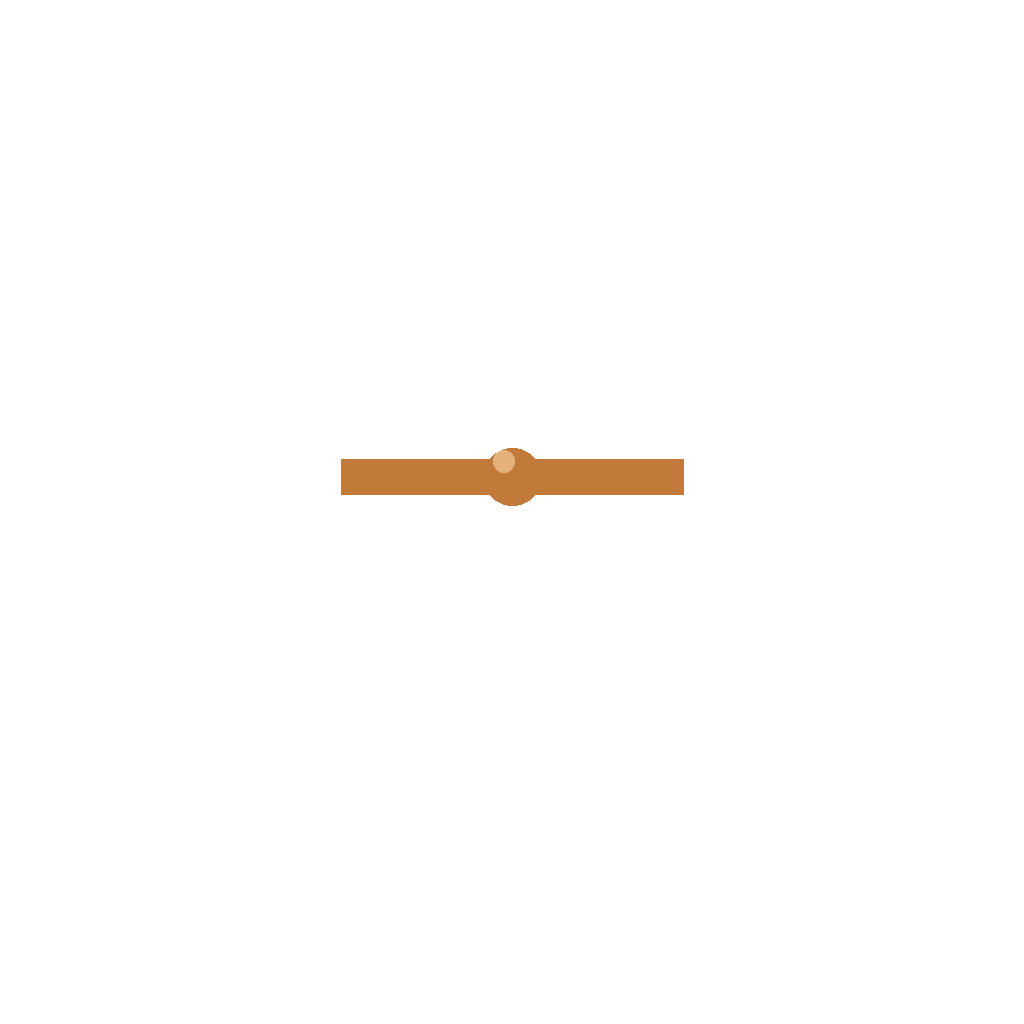
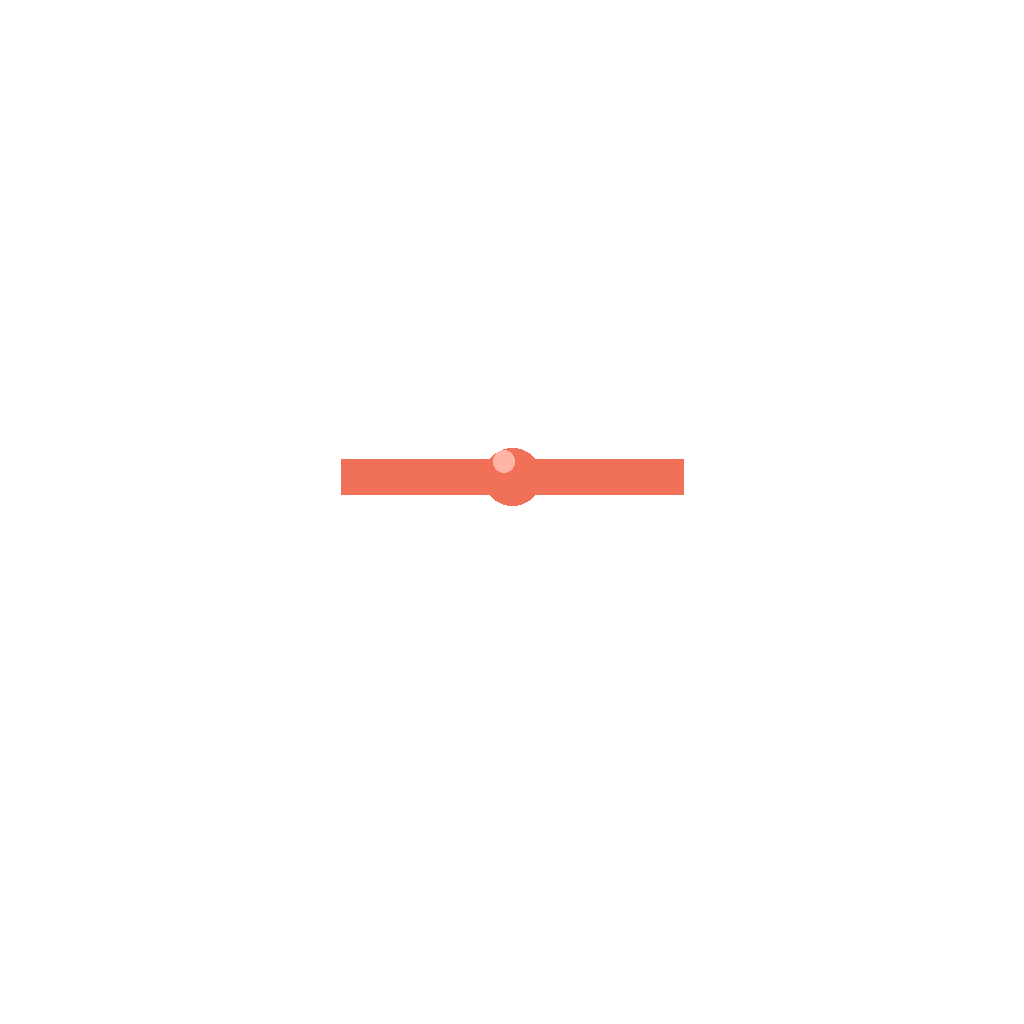
design: paleta modernizada para audiencia joven — coral + teal-gray
Basado en Refactoring UI (grises derivados del primario) y tendencias 2024:
- amber #C17A3A → coral #F07058: acento más vivo y moderno
- canopy: más vibrante (#2D6A4F → #2A7850)
- sage: más saturado (#74A689 → #62B88E)
- bark: fondo verde-neutro frío (antes beige-cálido #F7F4EF)
- stone400/600: teal-gray en lugar de brown-gray
- ink: verde-negro (#111D1A) en lugar de café-negro
- overlays: actualizados a rgba(17,29,26) frío
- Ícono: acento coral aplicado también al icono y splash

Changed region(s): [[0.3125, 0.4375, 0.6875, 0.5]]

diff --git a/src/theme/index.js b/src/theme/index.js
@@ -3,41 +3,45 @@
 
 // ── Colors ──────────────────────────────────────────────────────────────────
 export const colors = {
-  // Brand greens — selva costarricense, no menta tech
-  forest:    '#1B4332',   // primario: verde selva oscuro
-  canopy:    '#2D6A4F',   // secundario: dosel
-  sage:      '#74A689',   // acento verde desaturado
-  sageFaint: '#EBF2EE',   // fondo de badges verdes
+  // Brand greens
+  // forest: sin cambio — ancla oscura necesaria para headers con buen contraste
+  // canopy/sage: más vibrantes y luminosos que la paleta anterior
+  forest:    '#1B4332',   // primario: verde selva (sin cambio)
+  canopy:    '#2A7850',   // secundario: más vivo que #2D6A4F (contraste 5:1 en blanco ✓)
+  sage:      '#62B88E',   // acento verde: más saturado y fresco que #74A689
+  sageFaint: '#E3F4EC',   // fondo de badges: tint más limpio
 
-  // Action amber — cálido, terroso, diferencia acción de navegación
-  amber:      '#C17A3A',
-  amberDark:  '#A3612A',
-  amberLight: '#F5E6D3',
-  amberFaint: '#FBF3EB',
+  // Accent coral — reemplaza el amber terroso (#C17A3A) con coral moderno
+  // Tendencia dominante 2024 en apps lifestyle/eco para audiencia joven
+  amber:      '#F07058',  // coral vivo  (antes naranja-café #C17A3A)
+  amberDark:  '#D35640',  // coral oscuro (antes #A3612A)
+  amberLight: '#FDE8E2',  // fondo coral suave (antes #F5E6D3)
+  amberFaint: '#FFF2EE',  // fondo coral muy suave (antes #FBF3EB)
 
-  // Warm neutrals — papel sin blanquear, no gris frío
-  bark:     '#F7F4EF',   // background de toda la app
-  surface:  '#FFFFFF',   // cards (blanco solo aquí)
-  stone50:  '#FAF8F5',
-  stone100: '#EDE8E1',   // bordes, separadores
-  stone200: '#DDD5CA',   // disabled, placeholder border
-  stone400: '#A09585',   // texto terciario, iconos inactivos
-  stone600: '#6B5F52',   // texto secundario
-  ink:      '#1C1611',   // texto principal — negro cálido
+  // Neutrals — derivados del verde primario (teal-gray, no brown-gray)
+  // Refactoring UI: los grises deben heredar el hue del color primario
+  bark:     '#F3F6F4',   // background: tinte verde-gris sutil (antes beige-cálido)
+  surface:  '#FFFFFF',
+  stone50:  '#F7FAF8',   // antes #FAF8F5
+  stone100: '#DCE9E4',   // bordes: notablemente más frío (antes #EDE8E1)
+  stone200: '#C6D8D2',   // placeholder border (antes #DDD5CA)
+  stone400: '#82A09A',   // texto terciario / iconos inactivos (antes marrón #A09585)
+  stone600: '#4C6A63',   // texto secundario (antes marrón #6B5F52)
+  ink:      '#111D1A',   // texto principal: verde-negro (antes café-negro #1C1611)
 
-  // Semantic — derivados de la paleta, sin Material Design genérico
-  successBg:   '#E6F0EB',
+  // Semantic — alineados con la nueva paleta
+  successBg:   '#E3F2EB',
   successText: '#1B4332',
-  errorBg:     '#F5E8E6',
-  errorText:   '#9B3A2A',
-  warningBg:   '#F5E6D3',
-  warningText: '#A0611A',
+  errorBg:     '#FDE8E2',
+  errorText:   '#A83222',
+  warningBg:   '#FEF0E6',
+  warningText: '#9E5010',
 
   // Utility
   white:       '#FFFFFF',
   transparent: 'transparent',
-  overlay:     'rgba(28, 22, 17, 0.45)',
-  overlayDark: 'rgba(28, 22, 17, 0.70)',
+  overlay:     'rgba(17, 29, 26, 0.45)',   // verde-negro (antes marrón rgba(28,22,17))
+  overlayDark: 'rgba(17, 29, 26, 0.72)',
 };
 
 // ── Typography ───────────────────────────────────────────────────────────────
@@ -82,7 +86,7 @@ export const radius = {
 };
 
 // ── Shadows ──────────────────────────────────────────────────────────────────
-// shadowColor usa el primario, no negro genérico
+// shadowColor basado en el primario, no negro genérico
 export const shadow = {
   sm: {
     shadowColor: '#1B4332',

diff --git a/src/components/LoadingOverlay.js b/src/components/LoadingOverlay.js
@@ -39,7 +39,7 @@ export default function LoadingOverlay() {
 const styles = StyleSheet.create({
   overlay: {
     ...StyleSheet.absoluteFillObject,
-    backgroundColor: 'rgba(28,22,17,0.45)',
+    backgroundColor: colors.overlay,
     alignItems: 'center',
     justifyContent: 'center',
     zIndex: 999,
@@ -47,7 +47,7 @@ const styles = StyleSheet.create({
   card: {
     alignItems: 'center',
     gap: space.sm,
-    backgroundColor: 'rgba(28,22,17,0.90)',
+    backgroundColor: 'rgba(17,29,26,0.92)',
     paddingHorizontal: space.xxl,
     paddingVertical: space.xl,
     borderRadius: radius.lg,

diff --git a/src/screens/ScanScreen.js b/src/screens/ScanScreen.js
@@ -262,7 +262,7 @@ const styles = StyleSheet.create({
   previewImage: { flex: 1 },
   previewOverlay: {
     position: 'absolute', bottom: 0, left: 0, right: 0,
-    backgroundColor: 'rgba(28,22,17,0.72)',
+    backgroundColor: colors.overlayDark,
     padding: space.xl,
     paddingBottom: 40,
   },

diff --git a/scripts/gen_icons.py b/scripts/gen_icons.py
@@ -9,8 +9,8 @@ from PIL import Image, ImageDraw
 BG_TOP = (34,  84,  61, 255)   # #22543D  (slightly lighter top)
 BG_BOT = (27,  67,  50, 255)   # #1B4332  (brand forest green)
 WHITE  = (255, 255, 255, 255)
-AMBER  = (193, 122,  58, 255)  # #C17A3A
-AMBER2 = (220, 155,  85, 200)  # highlight
+AMBER  = (240, 112,  88, 255)  # #F07058 coral
+AMBER2 = (255, 160, 140, 200)  # highlight
 CLEAR  = (  0,   0,   0,   0)
 
 # ── Helpers ────────────────────────────────────────────────────────────────────
